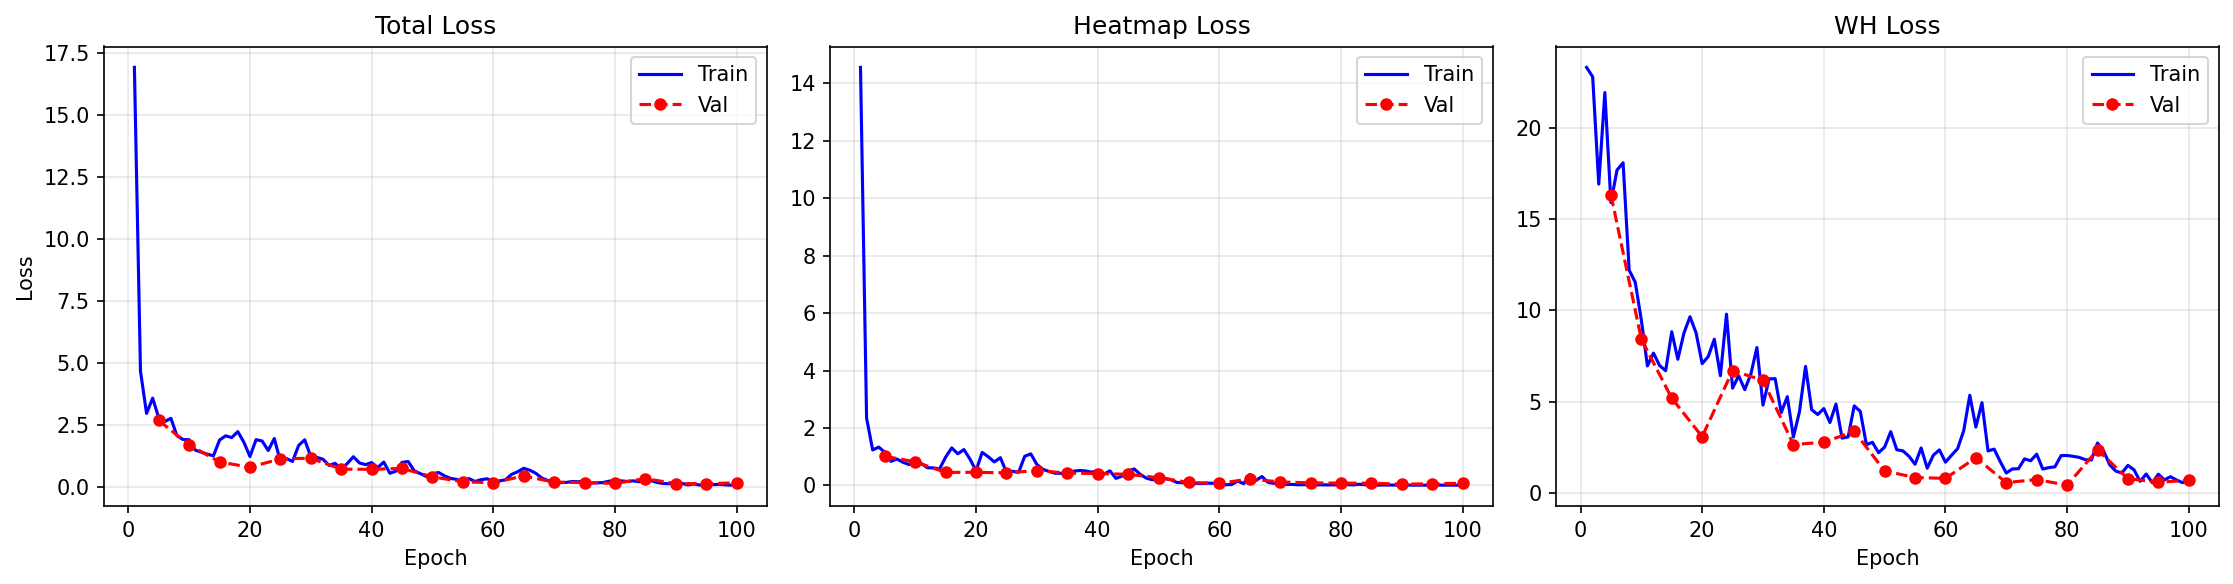
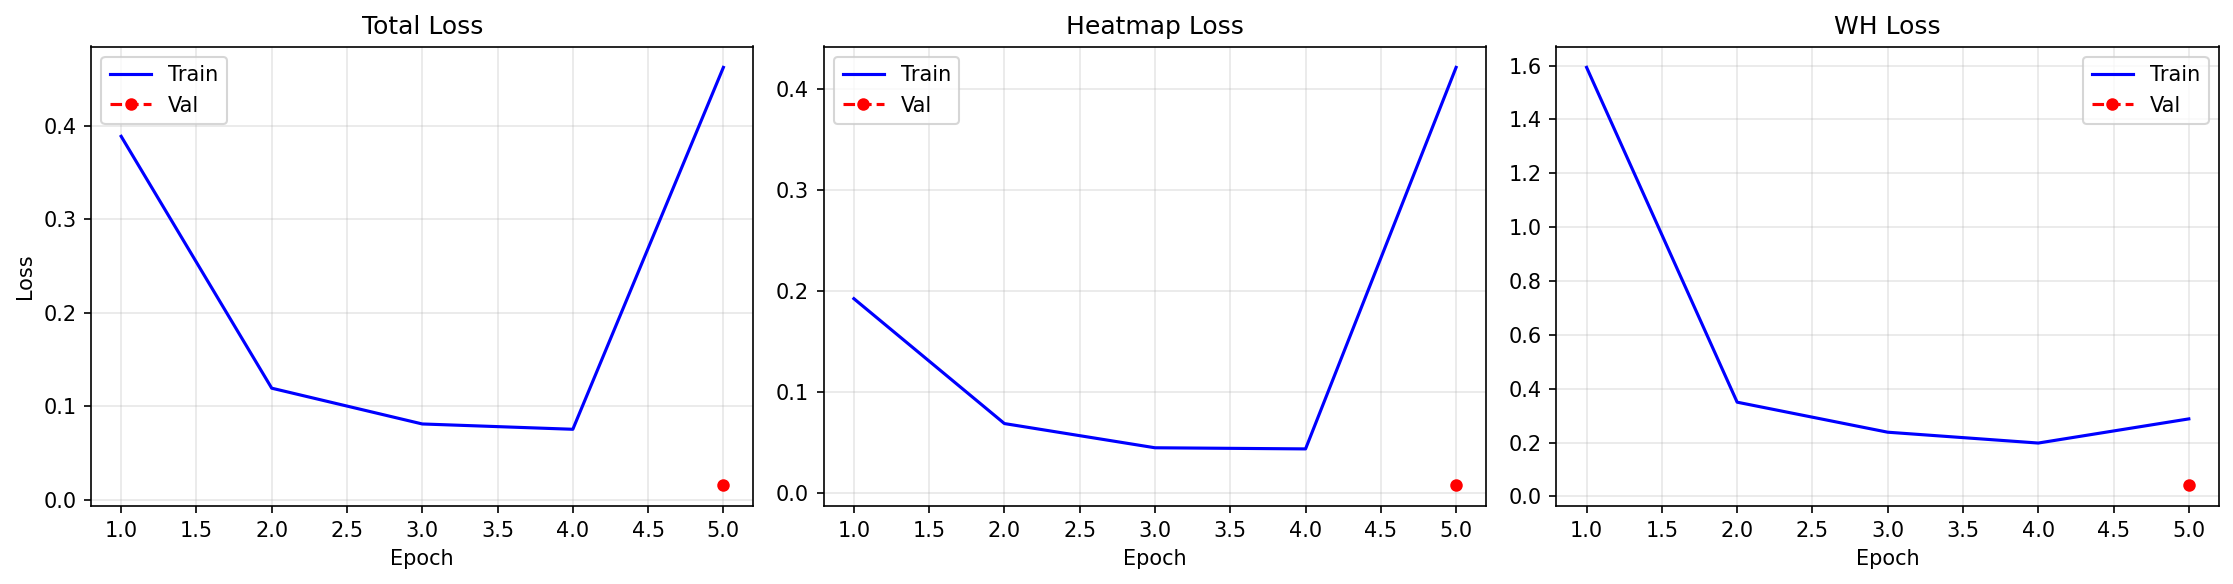
v2

diff --git a/src/lib/models/networks/swin.py b/src/lib/models/networks/swin.py
@@ -1,0 +1,63 @@
+import torch
+import torch.nn as nn
+import timm
+
+class SwinCenterNet(nn.Module):
+    def __init__(self, heads, head_conv,
+                 model_name='swinv2_tiny_window8_256',
+                 pretrained=True):
+        super().__init__()
+
+        self.backbone = timm.create_model(
+            model_name,
+            pretrained=pretrained,
+            features_only=True,
+            out_indices=(3,)
+        )
+
+        # swinv2_tiny输出通道数768，空间尺寸8×8
+        in_channels = 768
+
+        # --- 上采样：8→16→32→64 ---
+        self.upsample = nn.Sequential(
+            nn.ConvTranspose2d(in_channels, 256,
+                               kernel_size=4, stride=2, padding=1),
+            nn.BatchNorm2d(256), nn.ReLU(inplace=True),
+            nn.ConvTranspose2d(256, 128,
+                               kernel_size=4, stride=2, padding=1),
+            nn.BatchNorm2d(128), nn.ReLU(inplace=True),
+            nn.ConvTranspose2d(128, 64,
+                               kernel_size=4, stride=2, padding=1),
+            nn.BatchNorm2d(64), nn.ReLU(inplace=True),
+        )
+
+        # --- 检测头 ---
+        self.heads = heads
+        for head, num_output in heads.items():
+            fc = nn.Sequential(
+                nn.Conv2d(64, head_conv,
+                          kernel_size=3, padding=1, bias=True),
+                nn.ReLU(inplace=True),
+                nn.Conv2d(head_conv, num_output,
+                          kernel_size=1, stride=1, padding=0, bias=True)
+            )
+            if 'hm' in head:
+                fc[-1].bias.data.fill_(-2.19)
+            else:
+                nn.init.normal_(fc[-1].weight, std=0.001)
+                nn.init.constant_(fc[-1].bias, 0)
+            self.__setattr__(head, fc)
+
+    def forward(self, x):
+        features = self.backbone(x)
+        feat = features[-1]   # [B, 8, 8, 768]
+
+        # [B, H, W, C] → [B, C, H, W]
+        feat = feat.permute(0, 3, 1, 2).contiguous()  # [B, 768, 8, 8]
+
+        feat = self.upsample(feat)   # [B, 64, 64, 64]
+
+        ret = {}
+        for head in self.heads:
+            ret[head] = self.__getattr__(head)(feat)
+        return [ret]

diff --git a/src/lib/models/model.py b/src/lib/models/model.py
@@ -1,7 +1,7 @@
 from __future__ import absolute_import
 from __future__ import division
 from __future__ import print_function
-
+from models.networks.swin import SwinCenterNet
 import torchvision.models as models
 import torch
 import torch.nn as nn
@@ -18,16 +18,28 @@ _model_factory = {
   # 'dlav0': get_dlav0, # default DLAup
   # 'dla': get_dla_dcn,
   # 'resdcn': get_pose_net_dcn,
+  'swin_tiny': SwinCenterNet,
   'hourglass': get_large_hourglass_net,
 }
 
+# def create_model(arch, heads, head_conv):
+#   num_layers = int(arch[arch.find('_') + 1:]) if '_' in arch else 0
+#   arch = arch[:arch.find('_')] if '_' in arch else arch
+#   get_model = _model_factory[arch]
+#   model = get_model(num_layers=num_layers, heads=heads, head_conv=head_conv)
+#   return model
 def create_model(arch, heads, head_conv):
-  num_layers = int(arch[arch.find('_') + 1:]) if '_' in arch else 0
-  arch = arch[:arch.find('_')] if '_' in arch else arch
-  get_model = _model_factory[arch]
-  model = get_model(num_layers=num_layers, heads=heads, head_conv=head_conv)
+  if arch == 'swin_tiny':
+    model = SwinCenterNet(
+      heads=heads,
+      head_conv=head_conv,
+      model_name='swinv2_tiny_window8_256',
+      pretrained=True
+    )
+  else:
+    # 原来的逻辑不变
+    ...
   return model
-
 def load_model(model, model_path, optimizer=None, resume=False, 
                lr=None, lr_step=None):
   start_epoch = 0

diff --git a/test.py b/test.py
@@ -11,16 +11,16 @@ import matplotlib.pyplot as plt
 from models.model import create_model, load_model
 
 # --- 加载最优模型 ---
-model = create_model('res_50',
+model = create_model('swin_tiny',
                      heads={'hm': 1, 'wh': 2, 'reg': 2},
                      head_conv=64)
 model = load_model(model,
-                   r'E:\CenterNet\exp\ctdet\sonar_exp1\model_best.pth')
+                   r'E:\CenterNet\exp\ctdet\model_best.pth')
 model.eval()
 
 # --- 输入/输出路径 ---
 input_dir  = r'D:\gradu\simulation_5\tf_dataset\matrices'   # 改成你实际的测试集路径
-output_dir = r'E:\CenterNet\inference_results'
+output_dir = r'E:\CenterNet\inference_results_1'
 os.makedirs(output_dir, exist_ok=True)
 
 # --- 遍历所有 .mat 文件 ---

diff --git a/check_swin.py b/check_swin.py
@@ -1,0 +1,15 @@
+import timm
+import torch
+
+m = timm.create_model('swinv2_tiny_window8_256',
+                      features_only=True,
+                      out_indices=(3,))
+m.eval()
+
+x = torch.randn(1, 3, 256, 256)
+with torch.no_grad():
+    y = m(x)
+
+print('输出shape:', y[-1].shape)
+print('通道数:', y[-1].shape[1] if y[-1].dim() == 4 else y[-1].shape[-1])
+print('feature_info:', m.feature_info[-1])

diff --git a/loss_log_pic.py b/loss_log_pic.py
@@ -4,7 +4,7 @@ os.environ['KMP_DUPLICATE_LIB_OK'] = 'TRUE'
 import re
 import matplotlib.pyplot as plt
 
-log_path = r'E:\CenterNet\exp\ctdet\sonar_exp1\logs_2026-05-12-14-43\log.txt'
+log_path = r'E:\CenterNet\exp\ctdet\sonar_swin_exp1\logs_2026-05-26-21-00\log.txt'
 
 train_epochs, train_loss, train_hm, train_wh = [], [], [], []
 val_epochs,   val_loss,   val_hm,   val_wh   = [], [], [], []
